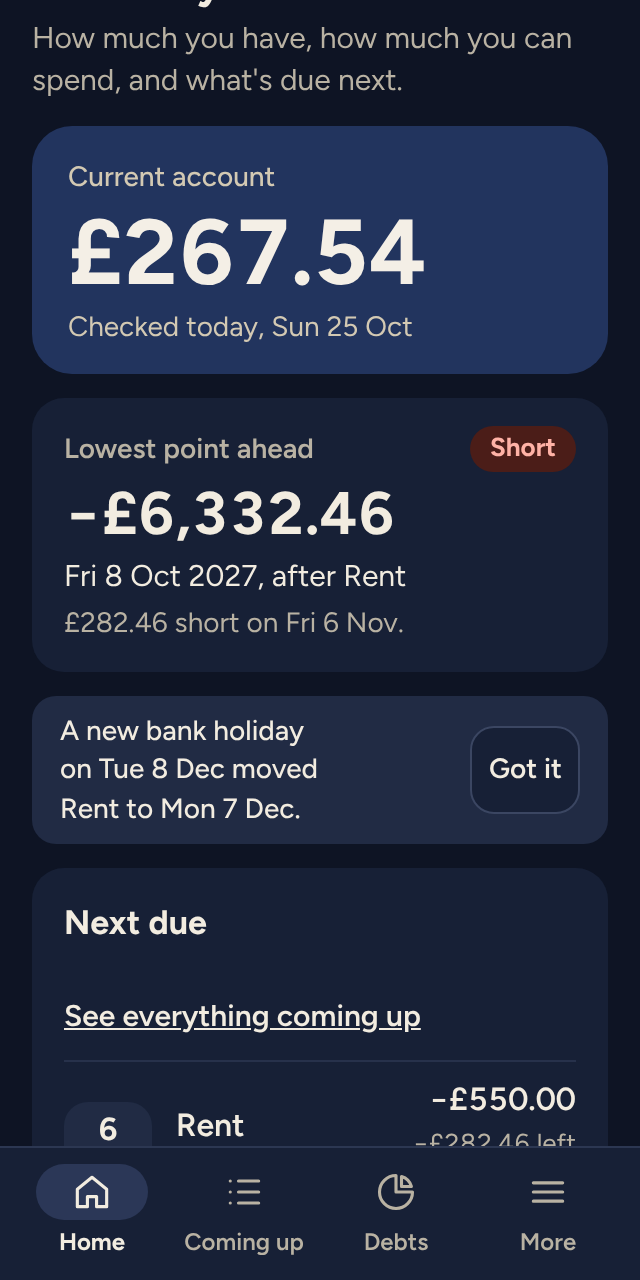
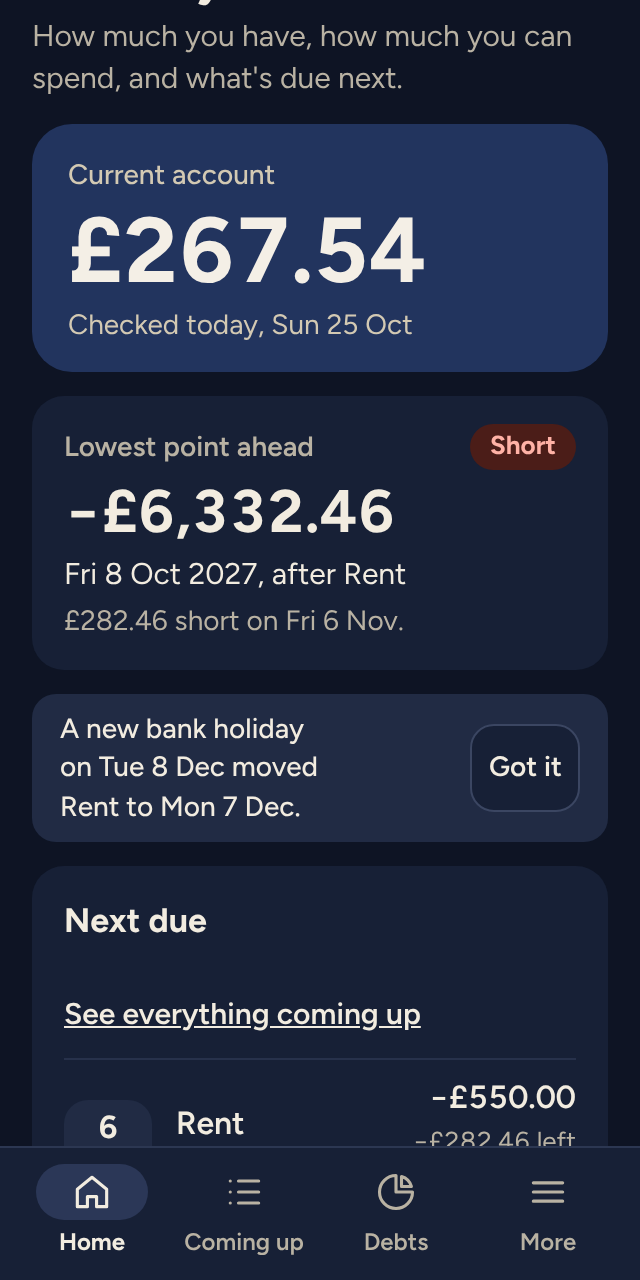
PLAN.md: step 4c's results on the building computer, and the final Home note screenshot
Claude-Session: https://claude.ai/code/session_01R7WB9u6zRWo3BAMatJj58N

diff --git a/PLAN.md b/PLAN.md
@@ -45,7 +45,7 @@ Progress against brief Part 9 (`docs/BRIEF.md`). Each phase is done in small ste
 - [ ] **Phase 4: polish.** Steps 4a to 4r, approved by the owner on 14 Nov 2026 (D511), one pull request each. Each ends with its own tests at 320px and 360px in light and dark, with axe, and an outside review. The questions to answer before a step are under "Waiting for the owner", numbered; 4m and 4n are ideas, built only if the owner says yes. Phase 4 adds nothing to the monthly cost: what it uses is on free plans (notifications on the web, Supabase's scheduled jobs and file storage, Resend and UptimeRobot), and the two things that could cost money are optional (questions 20 and 22).
   - [x] 4a The owner's two answers from step 3i. Done 14 Nov 2026. **A shared budget leaves on the payday of the person who added it, on both phones** (D508, D516, D517): each budget says whose paydays it follows, filled in by the database. While a shared budget follows someone's paydays, the database works out those paydays itself, the dates only (when the pay comes, which paydays moved and which were removed, never an amount, name, note, account or job), keeps them up to date whoever changes what, and only everyone in the plan reads them; no phone can write them (D512). The partner's phone works out the budget's weeks and months from them, exactly as the other phone does, keeps them with the plan, and never sends them back; a backup leaves them out. **Told first** (D514, D518): adding a budget to a shared account that would leave on your paydays says "Tom will see this money leave on your paydays." above "Add budget"; sharing an account with such budgets names them; so does the invite card. The Budgets screen says "Leaves on Jess's paydays." on Tom's phone and "Tom sees this leave on your paydays." on Jess's. **When the person who added it leaves** (D513, D517), or deletes their account, it follows the payday of the person who stays, or the 1st of the month (Monday for a weekly one) with no main pay, and their Budgets screen says so. **GraphQL is switched off** on the live database, as Supabase's own guide says, and every run of the Database workflow checks it's still off and switches it off again if not, with the "Database: Read-write" its key already has: nothing new to set up (D509, D519). **Two faults from step 3c, found by the new two-phone test:** a phone opening PrePenny could miss a partner's change for up to a minute, and now looks again as soon as it's listening (D515); and bringing the plan down could, in a moment's overlap with a partner's save, bring half a change and never ask for the rest, and now reads every record at one moment (D521). A test makes each moment happen, and fails without its fix. Step 3i's signed-in journeys now check Tom's phone against exactly Jess's balances (D520). An outside review found eight more things, all fixed (D522): among them, budgets from before this step now reach phones that already had the plan, two people with the same main pay each have paydays of their own, and a split of the pay that changes only its amount shows nothing at all on the partner's phone. 1,223 database checks pass, 82 of them new, with thirteen new rules each broken on purpose to see them fail; the security test has a test of its own for step 4a, which fails at once if anything more than dates reaches Tom, and checks every table gives nothing through GraphQL once it's off, for all four people. Screenshots are in `docs/screens/4a`. Results on the building computer: 1,223 database checks, 857 engine tests, 456 app tests and 54 script tests pass; of 1,060 end-to-end tests before D523 and D524, 968 passed, 88 were skipped by design, and the only failures were the four runs of "Continue with Google", which this computer's network stops (item 56). After D523 and D524, every test that signs in was run again at 320px and 360px, in light and dark: of 322, 302 passed and 16 were skipped by design, and again the only failures were the four runs of "Continue with Google". Ten of the 302 passed on a second run, after the building computer's copy of the server function for emails, stopped earlier by the computer, was started again. D514 is the owner's, D515 to D521 were decided along the way, and D522 comes from the outside review. **The owner's answer to question 23** (D523): a change that makes a budget follow paydays, an undo included, follows the paydays of the person making it, never the other person's, so nothing of Jess's pay reaches Tom unless Jess does it herself. The database decides, the engine works it out the same way after every edit, and a phone takes the server's word for it even on its own change, which the new two-phone test found it didn't. **GitHub's failure of test 3 on the ready run** (D524) was the test's own timing, not the app: it held a look one of the phones made by itself instead of the test's own request. It now holds only its own request, and still fails against the way of bringing the plan down from before D521. The owner answered question 24 with step 4b's instructions: in the undo case, Tom is told afterwards, as built (D525).
   - [x] 4b Safer building blocks. Done 14 Nov 2026 (items 10 and 31). **The building-block check** (D527): on every pull request and on `main`, the last step of GitHub's first check asks npm about every package PrePenny uses, 332 today, against the list of known security problems GitHub's advisories make up. A serious one (high or critical) that the change brings in fails it, naming the package, its version, the fix, and whether it comes in through the app or only through the tools; on `main` it doesn't go live. One already there before the change, and moderate and low ones, are warnings on every run. No pnpm setting can hide one, and a problem accepted on purpose needs its id in `pnpm-workspace.yaml` and a decision, and is said on every run. **Dependabot's list** (D528): GitHub can't read pnpm 12's two-part lockfile, so the owner's Dependabot alerts would have covered only the GitHub actions; after each change to `main`, a new workflow sends GitHub every package through its own dependency submission API, so Dependabot alerts cover them, between changes too. **Each page's security policy lists exactly its own scripts** (D529): no script written into a page runs unless it's listed by its fingerprint, 4 on each of 33 pages, with a rule for each page (34 of the 100 Cloudflare reads); script files only from PrePenny's own address, as before; and the offline helper fetches every page again with its new policy. A script slipped into a page, or added once it's open, is refused, and every page still works, at 320px and 360px, in light and dark, and with no signal (`e2e/page-scripts.spec.ts`: 64 of its 65 tests fail with the old policy). **The live pages are checked after each update** (D530): straight after the Deploy workflow puts `main` online, every page of prepenny.co.uk must be exactly as built, with exactly its own policy, and nothing of Cloudflare's. **What Cloudflare adds of its own** (item 31, D531): it was writing its Web Analytics script into every live page, which the policy always stopped running: the owner switches it off before merging (README.md part N); its Network Error Logging headers: switching off recommended; its robots.txt: left until Phase 5; nothing else. An outside review found a pnpm setting that could hide a serious problem, a check stricter than the owner asked, a live check with no time limits, and smaller things, all fixed (D532). The owner's answer to question 24 (D525) and new rule for what to check by hand (D526, `docs/TRY-PHASE-4.md`, with step 4a's steps moved there). Results on the building computer: 1,223 database checks (each test file run straight into the local database, as Supabase's test runner couldn't be downloaded there), 857 engine tests, 478 app tests and 84 script tests pass; of 1,194 end-to-end tests at 320px and 360px in light and dark, 1,102 passed, 88 were skipped by design, and the only failures were the four runs of "Continue with Google", which this computer's network stops (item 56). On GitHub, the building-block check said "332 checked against the list of known security problems, and this change brings in no serious one." No screen changed, so there are no new screenshots. GitHub's ready run then failed once, at setup test 6: an old fault in setup, not the new rule. A cursor moved a frame after "Add another" could, on a busy machine or a slow phone, take the cursor from a box being typed in, so the typing went into the new form's name. It now moves only if the cursor hasn't moved since, and setup test 10 makes that moment happen every time (D533). That push also showed the end-to-end tests had stopped running on each push: an edit to the building-block step had cut them out of `check.yml`. They're back, with a test that fails if they ever go again (D535). The owner answered question 25: the check stops a change that brings in a serious problem, and one already there is a warning and a Dependabot alert (D534). D525, D526 and D534 are the owner's, D527 to D531 were decided along the way, D532 comes from the outside review, and D533 and D535 from GitHub's runs. **You:** switch off Cloudflare's Web Analytics before merging, and Network Error Logging when you like (README.md part N); Dependabot alerts are on already.
-  - [x] 4c Bank holidays. Done 15 Nov 2026 (D57, item 9, question 4). **The newest list each week** (D537): PrePenny's own site serves the bank holiday list at `/bank-holidays.json`. Every Monday the Bank holidays workflow compares GOV.UK's list with the live one and, only when GOV.UK's has changed, puts the commit that's live online again, and the Deploy workflow swaps in GOV.UK's newest list each time it puts the app online, so a new bank holiday reaches the site within a week with no update to PrePenny. Phones fetch it once a week, when PrePenny opens or comes back on screen; with no signal, or before the first fetch, they use the copy built into PrePenny. **Both phones agree** (D536): each plan keeps the list its dates come from; in an account, the server's, which someone who can edit sends when their phone has a newer one, and the other phone brings down within seconds, so every date a year ahead is the same on both, whichever fetched it first. **Why it moved** (D538): a payment's sheet says "Moved from Tue 8 Dec: bank holiday", or "weekend", under its date. **The rule** (D540): choosing "This and all later ones" in a payment's sheet offers "On a weekend or bank holiday" with Keep the date, Move to the working day before and Move to the working day after; not for pay on the last working day (D145). **The owner's answer to question 4** (D539): when a newer list moves a payment, one note on Home under the lowest point, "A new bank holiday on Tue 8 Dec moved Rent to Mon 7 Dec.", with Got it; its dates have their year when it isn't this year (D541). Tested at 320px and 360px in light and dark, with axe: a new bank holiday arriving and moving Rent with the note on Home, changing Rent's rule, no signal, and Jess and Tom on two phones agreeing on every date and every day's balance a year ahead, Jess's phone first and Tom's first; the two-phone test fails with the phone's sending taken out. 41 new database checks, 31 new engine tests (2 of them property tests), 21 new app tests and 2 new workflow tests. "Got it" now takes the note off the phone before the screen (D542), found by the step's own tests. An outside review found a list no phone could read could stop a shared plan coming down, GOV.UK taking a change back not reaching phones, and a note on a phone that had just signed in, all fixed (D543), and a question for the owner (26). Screenshots are in `docs/screens/4c`. D539 is the owner's, D536 to D538 and D540 to D542 were decided along the way, and D543 comes from the outside review. **You:** nothing to set up (README.md, "Bank holidays").
+  - [x] 4c Bank holidays. Done 15 Nov 2026 (D57, item 9, question 4). **The newest list each week** (D537): PrePenny's own site serves the bank holiday list at `/bank-holidays.json`. Every Monday the Bank holidays workflow compares GOV.UK's list with the live one and, only when GOV.UK's has changed, puts the commit that's live online again, and the Deploy workflow swaps in GOV.UK's newest list each time it puts the app online, so a new bank holiday reaches the site within a week with no update to PrePenny. Phones fetch it once a week, when PrePenny opens or comes back on screen; with no signal, or before the first fetch, they use the copy built into PrePenny. **Both phones agree** (D536): each plan keeps the list its dates come from; in an account, the server's, which someone who can edit sends when their phone has a newer one, and the other phone brings down within seconds, so every date a year ahead is the same on both, whichever fetched it first. **Why it moved** (D538): a payment's sheet says "Moved from Tue 8 Dec: bank holiday", or "weekend", under its date. **The rule** (D540): choosing "This and all later ones" in a payment's sheet offers "On a weekend or bank holiday" with Keep the date, Move to the working day before and Move to the working day after; not for pay on the last working day (D145). **The owner's answer to question 4** (D539): when a newer list moves a payment, one note on Home under the lowest point, "A new bank holiday on Tue 8 Dec moved Rent to Mon 7 Dec.", with Got it; its dates have their year when it isn't this year (D541). Tested at 320px and 360px in light and dark, with axe: a new bank holiday arriving and moving Rent with the note on Home, changing Rent's rule, no signal, and Jess and Tom on two phones agreeing on every date and every day's balance a year ahead, Jess's phone first and Tom's first; the two-phone test fails with the phone's sending taken out. 41 new database checks, 31 new engine tests (2 of them property tests), 21 new app tests and 2 new workflow tests. "Got it" now takes the note off the phone before the screen (D542), found by the step's own tests. An outside review found a list no phone could read could stop a shared plan coming down, GOV.UK taking a change back not reaching phones, and a note on a phone that had just signed in, all fixed (D543), and a question for the owner (26). Results on the building computer: 1,268 database checks, 888 engine tests, 499 app tests and 87 script tests pass. Of the 1,218 end-to-end tests at 320px and 360px in light and dark, the 888 that don't sign in all passed (run before the outside review's fixes; this step's own ran again after them, 12 in 12); of the 330 that sign in, run after them on a fresh database, 306 passed, 16 were skipped by design, and the only failures were the four runs of "Continue with Google", which this computer's network stops (item 56), and sign-in test 1's four: it lists every request signing up may send, and now allows the plan's bank holiday list, checking it holds only the plan, its version and GOV.UK's list; it then passed 4 runs in 4. Screenshots are in `docs/screens/4c`. D539 is the owner's, D536 to D538 and D540 to D542 were decided along the way, and D543 comes from the outside review. **You:** nothing to set up (README.md, "Bank holidays").
   - [ ] 4d Installing to the home screen. PrePenny shows how to add it to the home screen, in words for Android and for iPhone, so it opens like an app, full screen and with no signal; on Android the browser's own "Install" is one tap (question 5). The home-screen app gets its finishing touches: an opening screen in PrePenny's colours, on iPhone, which has none of its own yet, and in dark mode on Android, which shows the light one today; and on Android a long press of the icon offers Update balance and I spent. On an iPhone, the home-screen app keeps its own storage, apart from Safari, so someone with a plan and no account is told to sign up first, so the plan comes with them. **You:** nothing.
   - [ ] 4e Reminders. Optional notifications on the phone: "Payday: update your balance", "Rent goes out tomorrow. You'll have £4.53 left until Friday.", "You'll be £40 short on Sun 1 Nov." and a weekly summary, with quiet hours and a choice to hide amounts (brief 4.11, D54, questions 6 and 7). They need an account, as a web app can't wake itself up: PrePenny's server works them out each hour with the same engine as the phone, from the plan saved in the account, seeing only what that person may see. On an iPhone they need the home-screen app from step 4d (D22). **You:** add one secret to GitHub, the key PrePenny signs its notifications with, made as the step says (free). No Apple or Google developer account is needed for this.
   - [ ] 4f Notifications in a shared plan. Optional: "Tom added Car MOT, −£54.85 on Fri 13 Nov.", and the shared warnings, "The joint account will be £30 short on Sun 1 Nov.", to both people (brief 4.14, question 8). Nothing in them ever names the other person's private things, which the security test (D495) checks. **You:** nothing.
